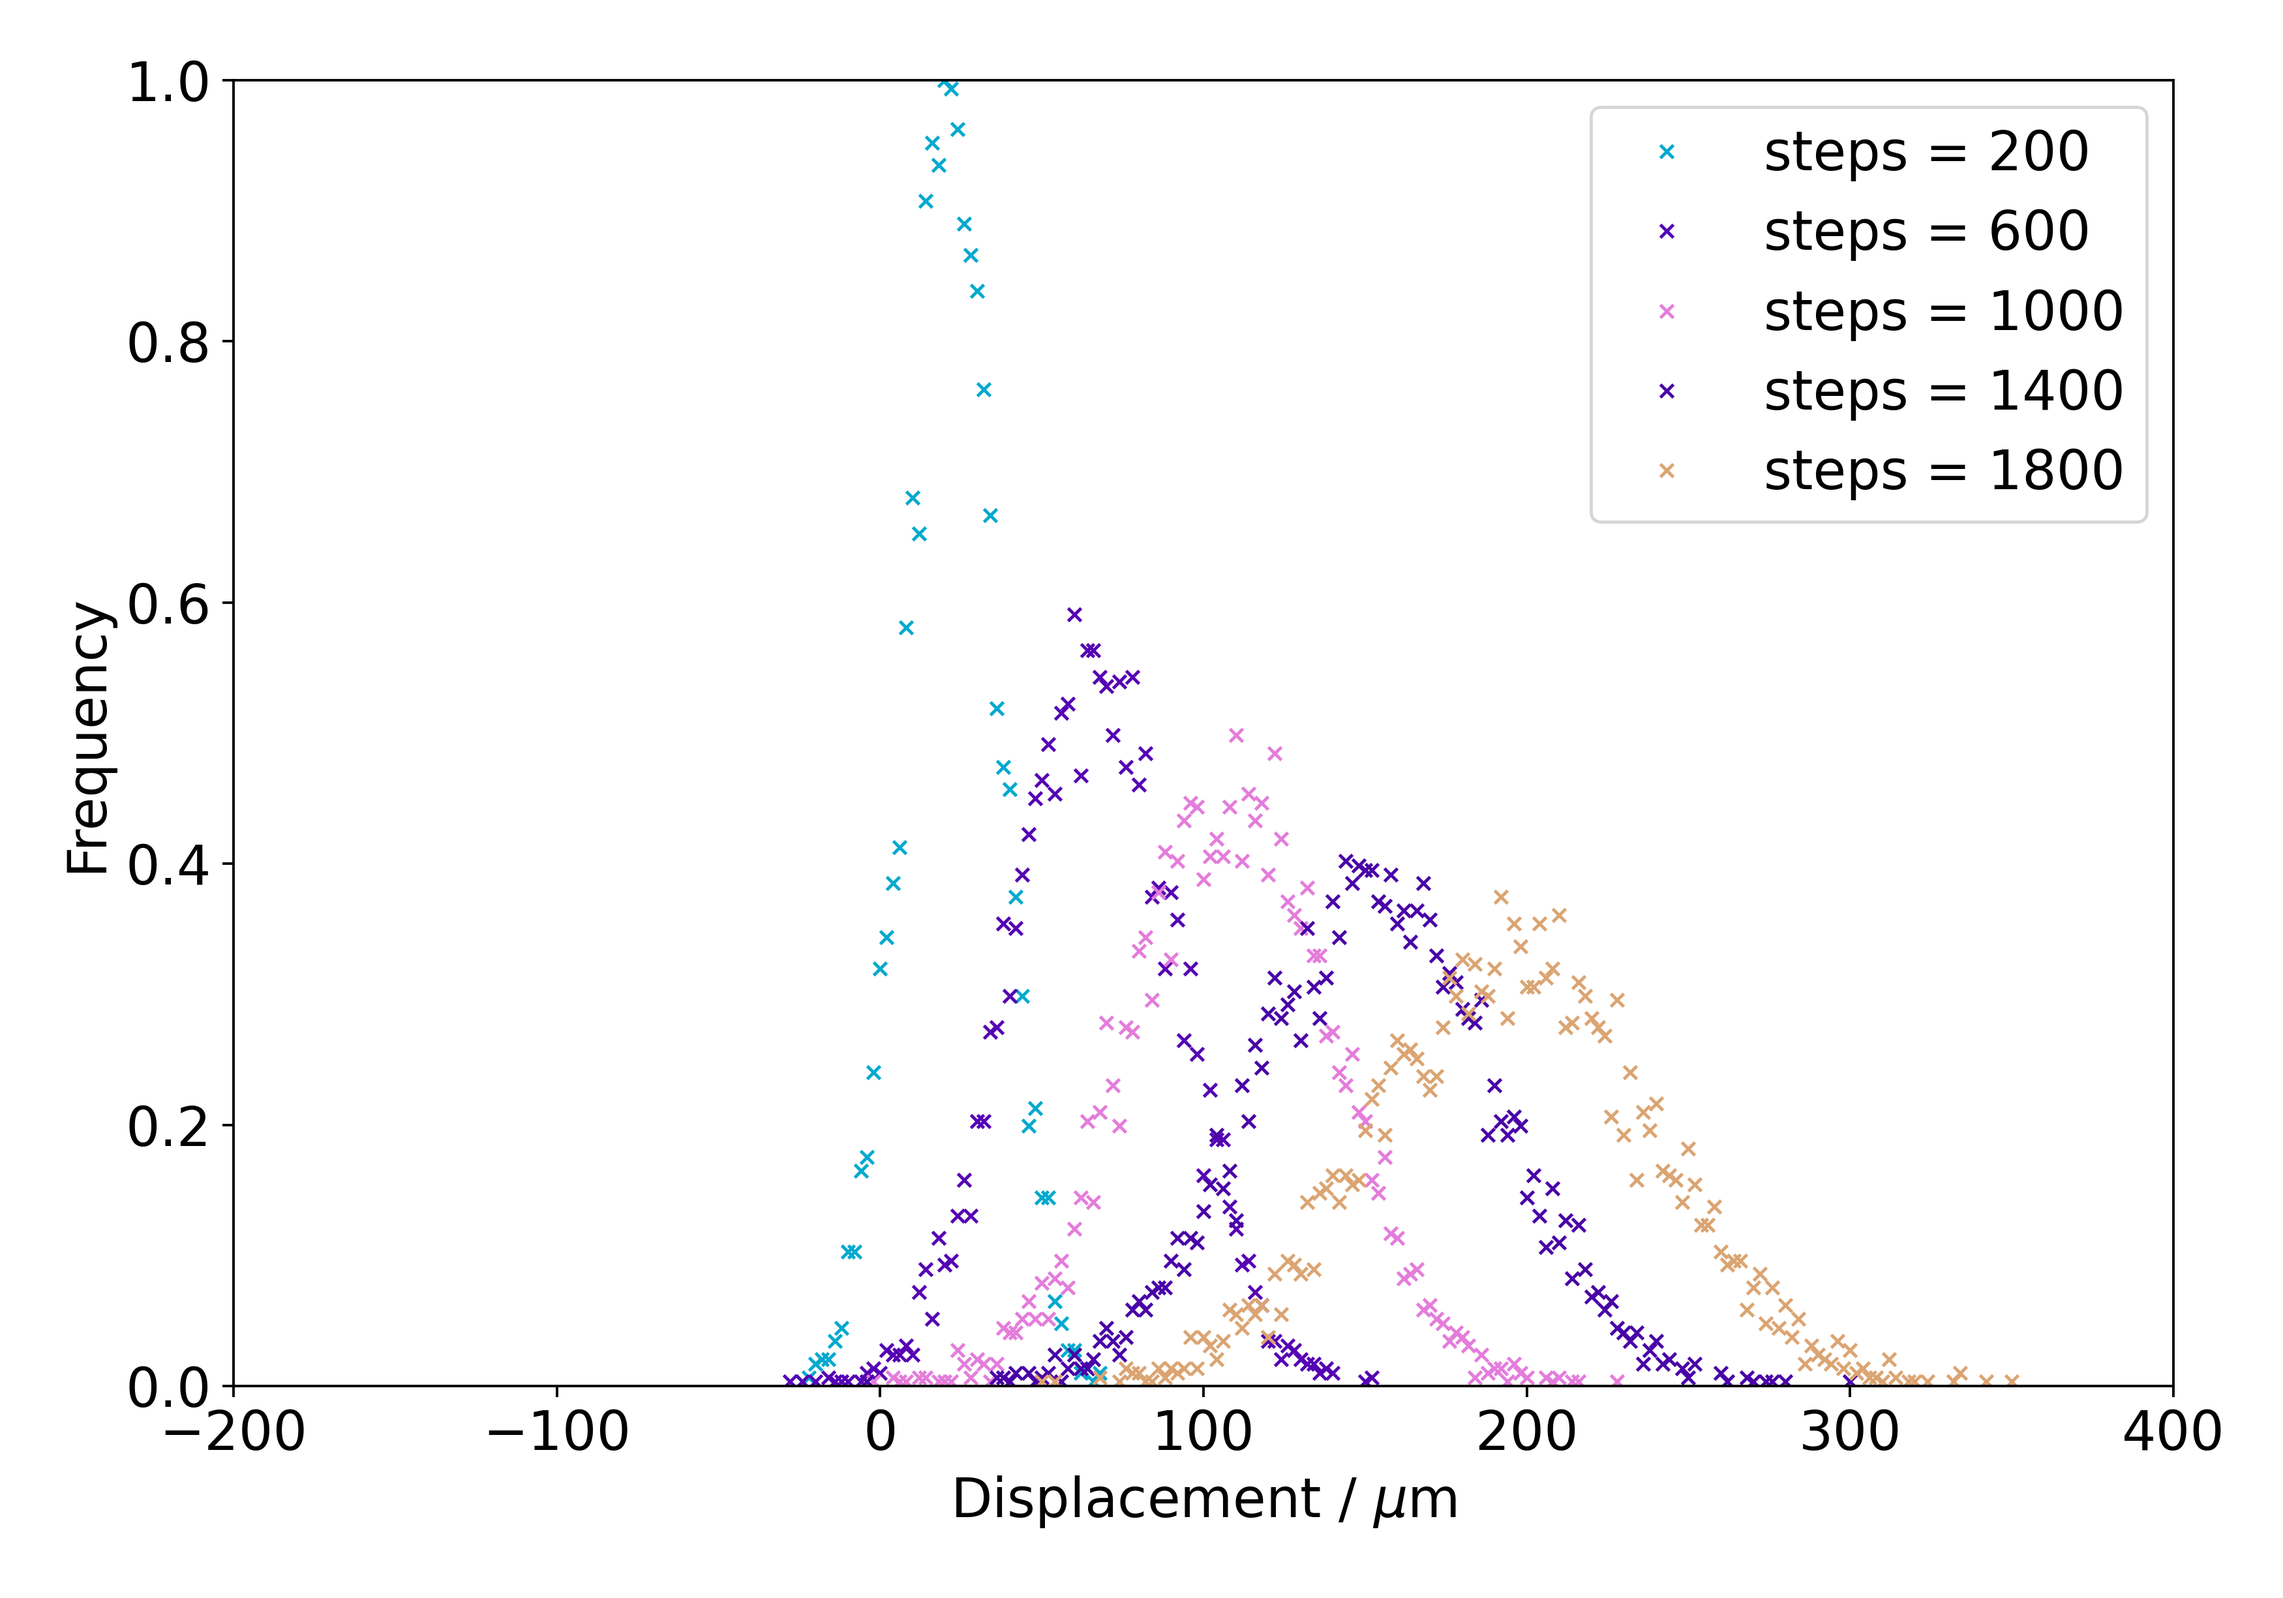
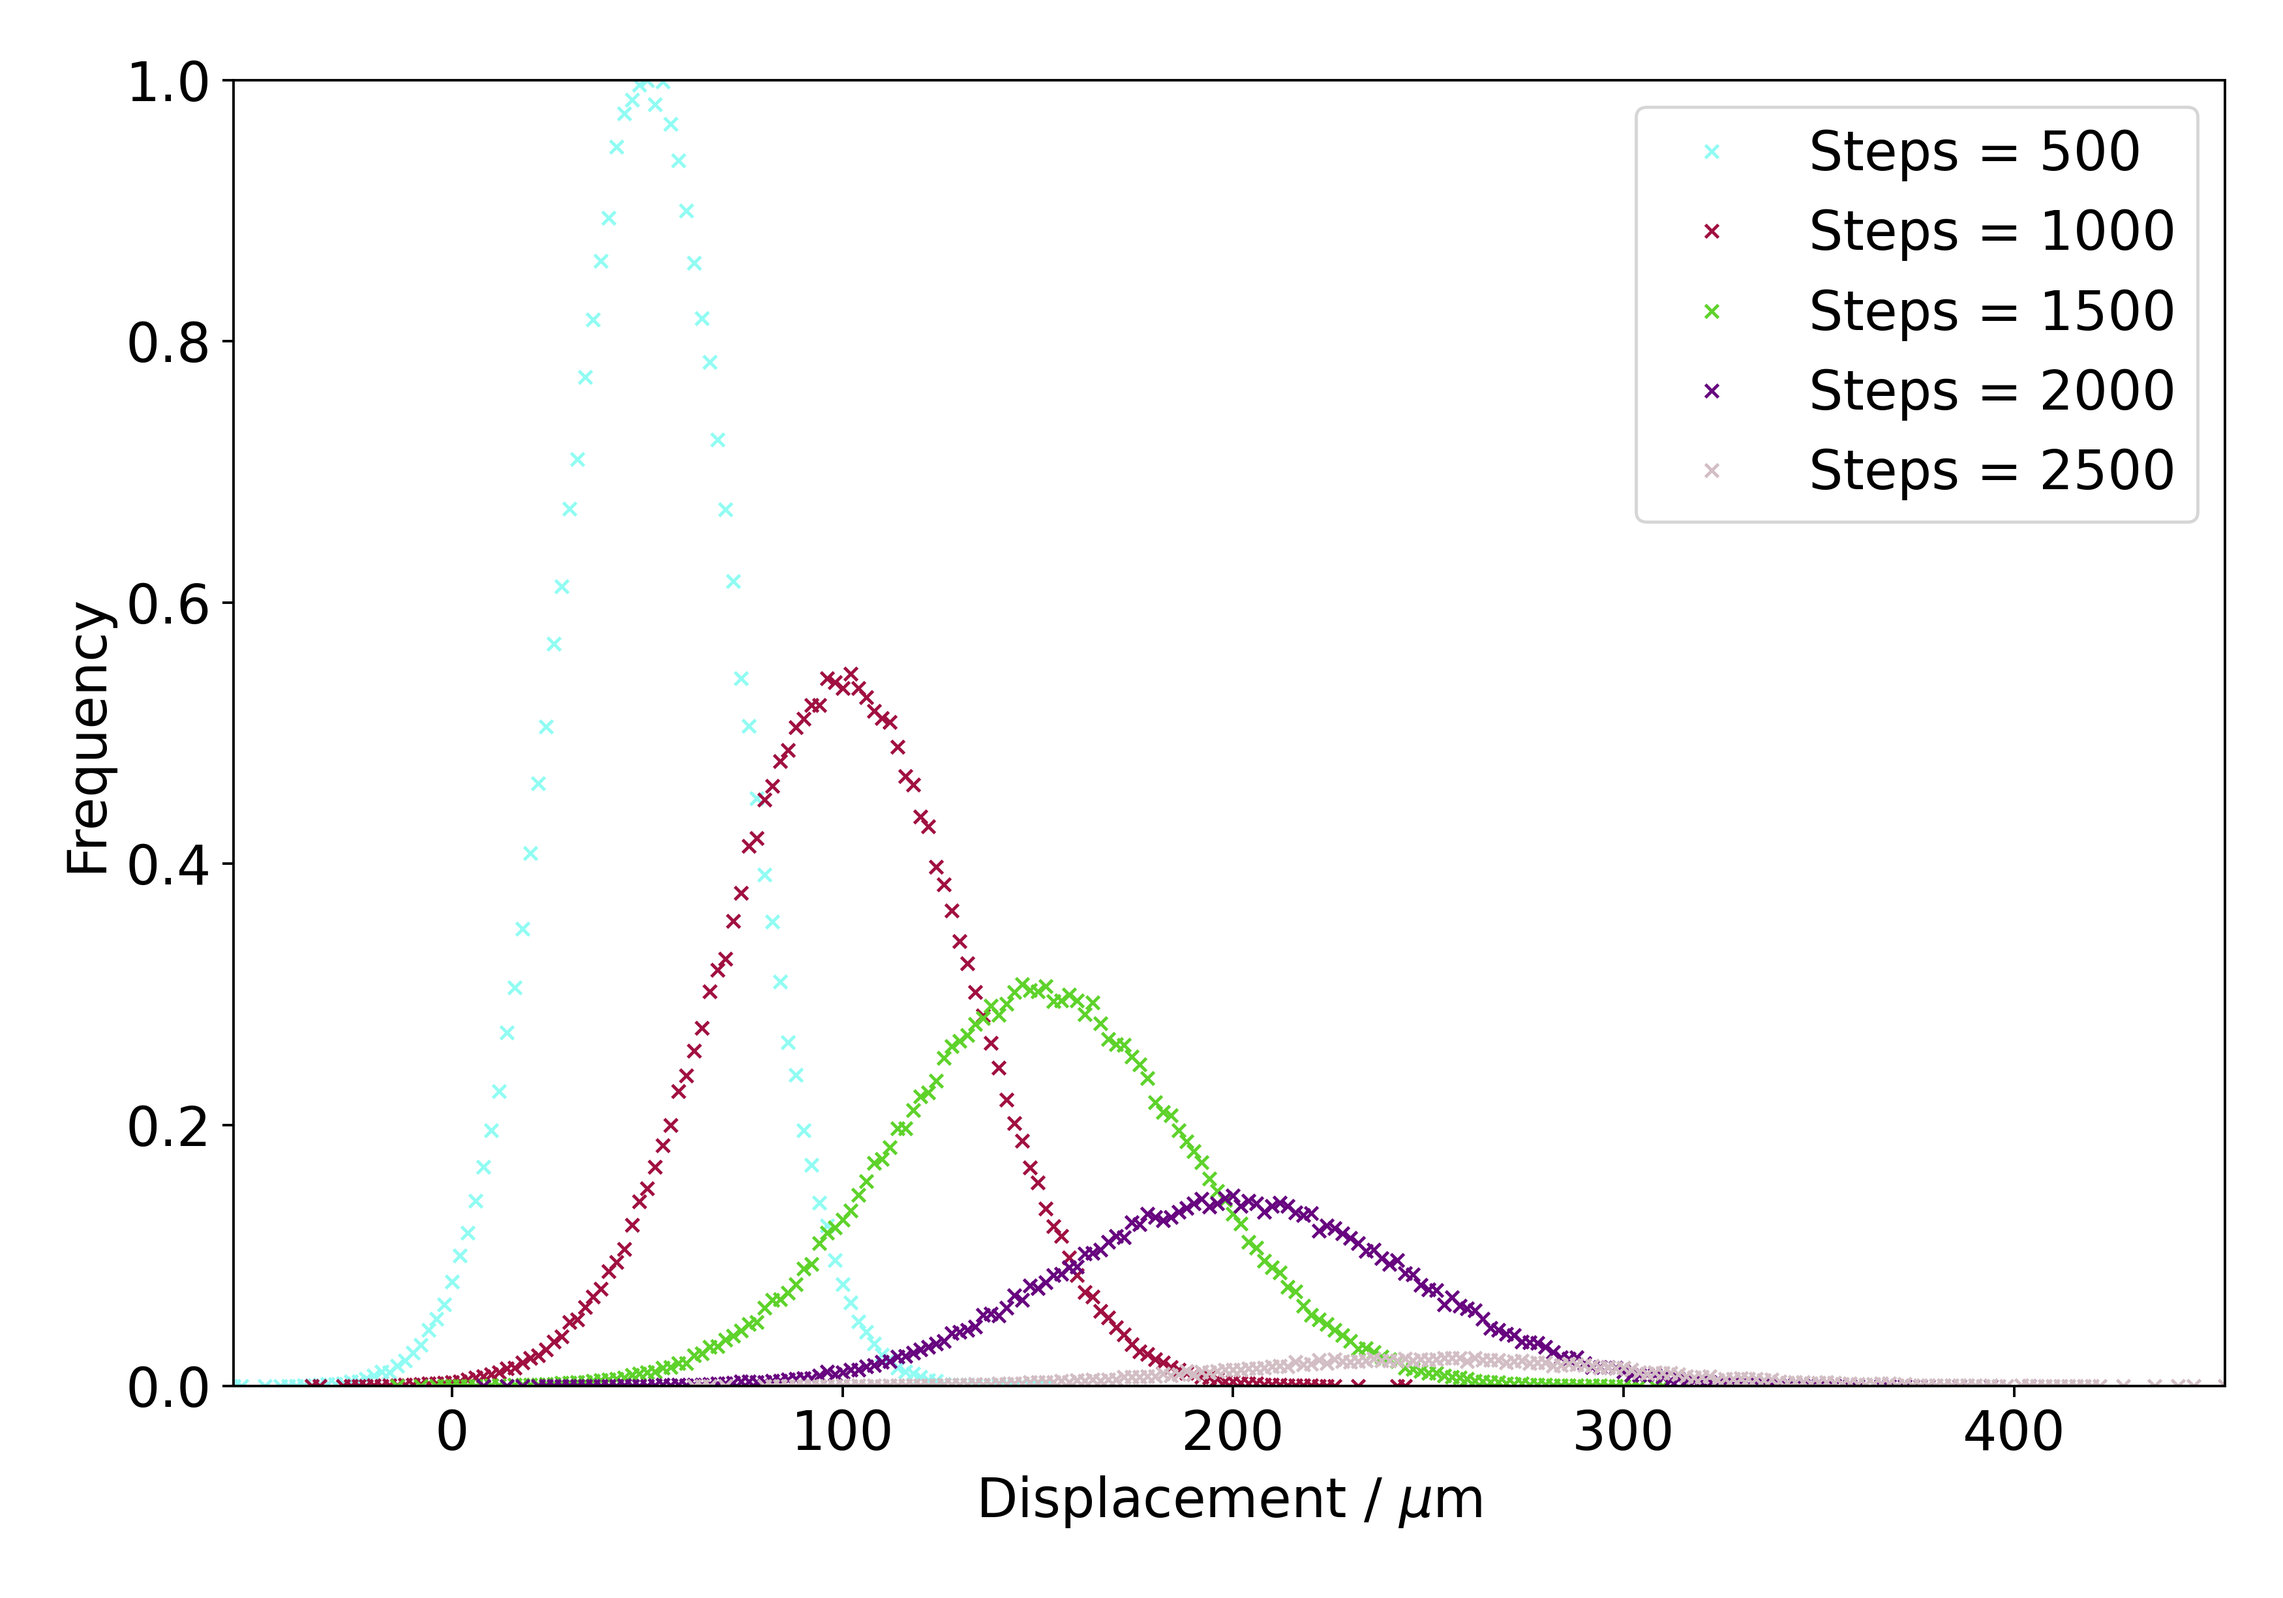
Change number of particles to 500,000

diff --git a/src/random_walk.py b/src/random_walk.py
@@ -48,7 +48,7 @@ class RandomWalk(Plotter):
         super().__init__(self.xlabel, self.ylabel, figname)
 
 
-    def random_walk(self, steps, skew_point: int, decay_prob=0) -> dict: #skew_point is the probability of moving right, decay_prob is the probability of decay
+    def random_walk(self, steps, drift_prob: int, decay_prob=0) -> dict: #skew_point is the probability of moving right, decay_prob is the probability of decay
         """
         Generates a random walk.
         
@@ -68,26 +68,19 @@ class RandomWalk(Plotter):
         
         """
 
-        walker = 0 #initial particle position
-        positions = [] #list of final positions reached by each particle
+        num_particles = 500000
+        positions = np.zeros(num_particles, dtype=int)
 
-        for _ in range(10000): #10000 particles
-            for _ in range(steps): #1000 steps per particle
-                match random.randint(0, 100) <= skew_point: #probability of moving right 
-                    case False: 
-                        walker -= 1
-                    case _:
-                        walker += 1
-            
-            if random.randint(0, 100) >= decay_prob:
-                positions.append(walker)
+        for _ in range(steps):  
+            drift_right = np.random.rand(num_particles) <= (drift_prob / 100)
+            positions[drift_right] += 1
+            positions[~drift_right] -= 1
 
-            walker = 0 #resets position for next particle
-        
-        dict_positions = {} #dictionary of positions and number of particles at that position
-        for i in range(min(positions), max(positions)+1):
-            if positions.count(i) > 0:
-                dict_positions[i] = positions.count(i)
+        decay = np.random.rand(num_particles) > (decay_prob / 100)
+        positions = positions[decay]
+
+        unique_positions, counts = np.unique(positions, return_counts=True)
+        dict_positions = dict(zip(unique_positions, counts))
 
         return dict_positions
 
